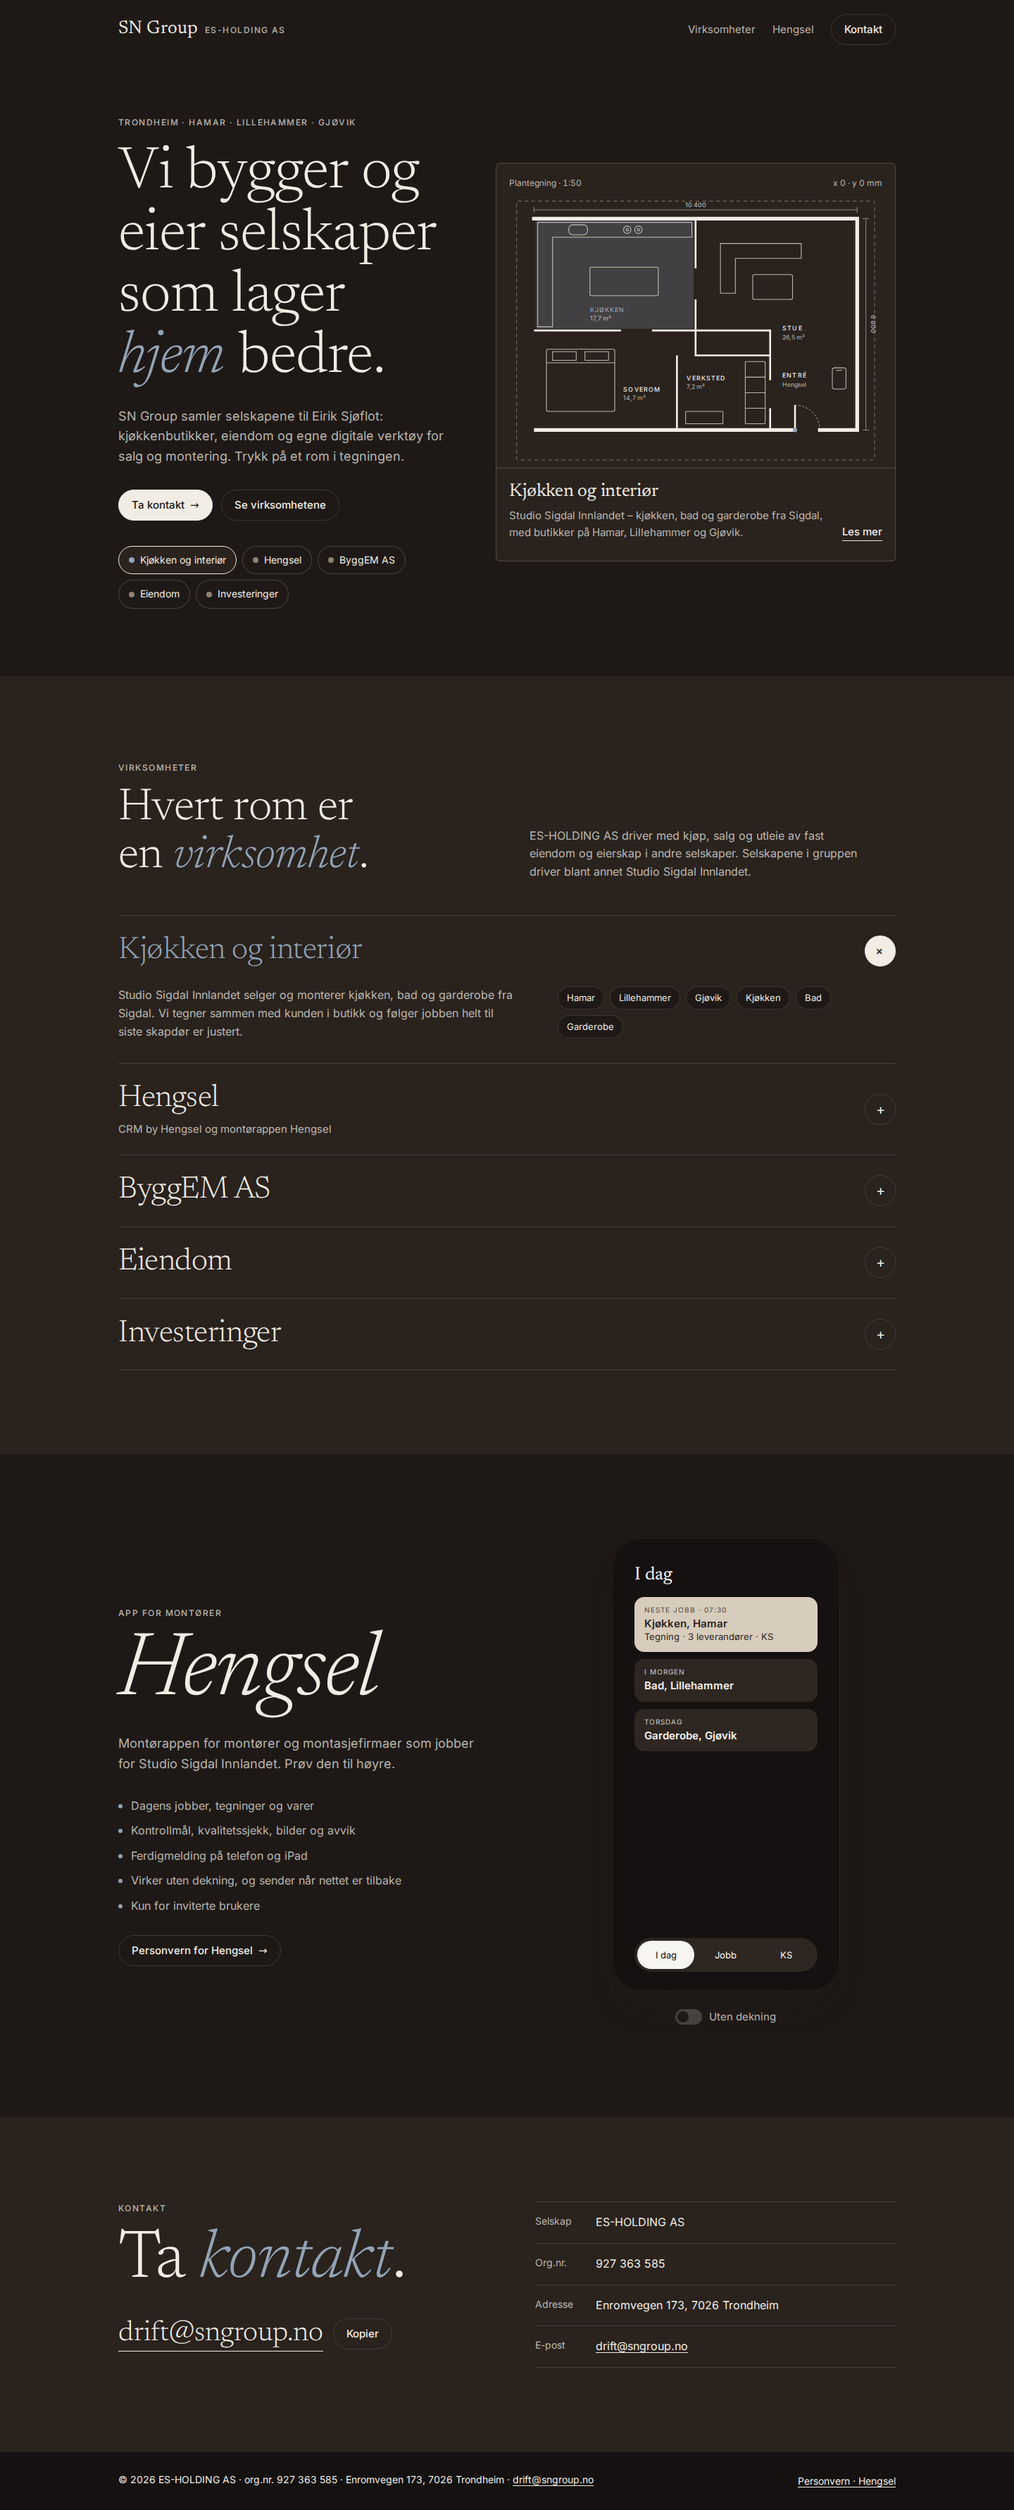
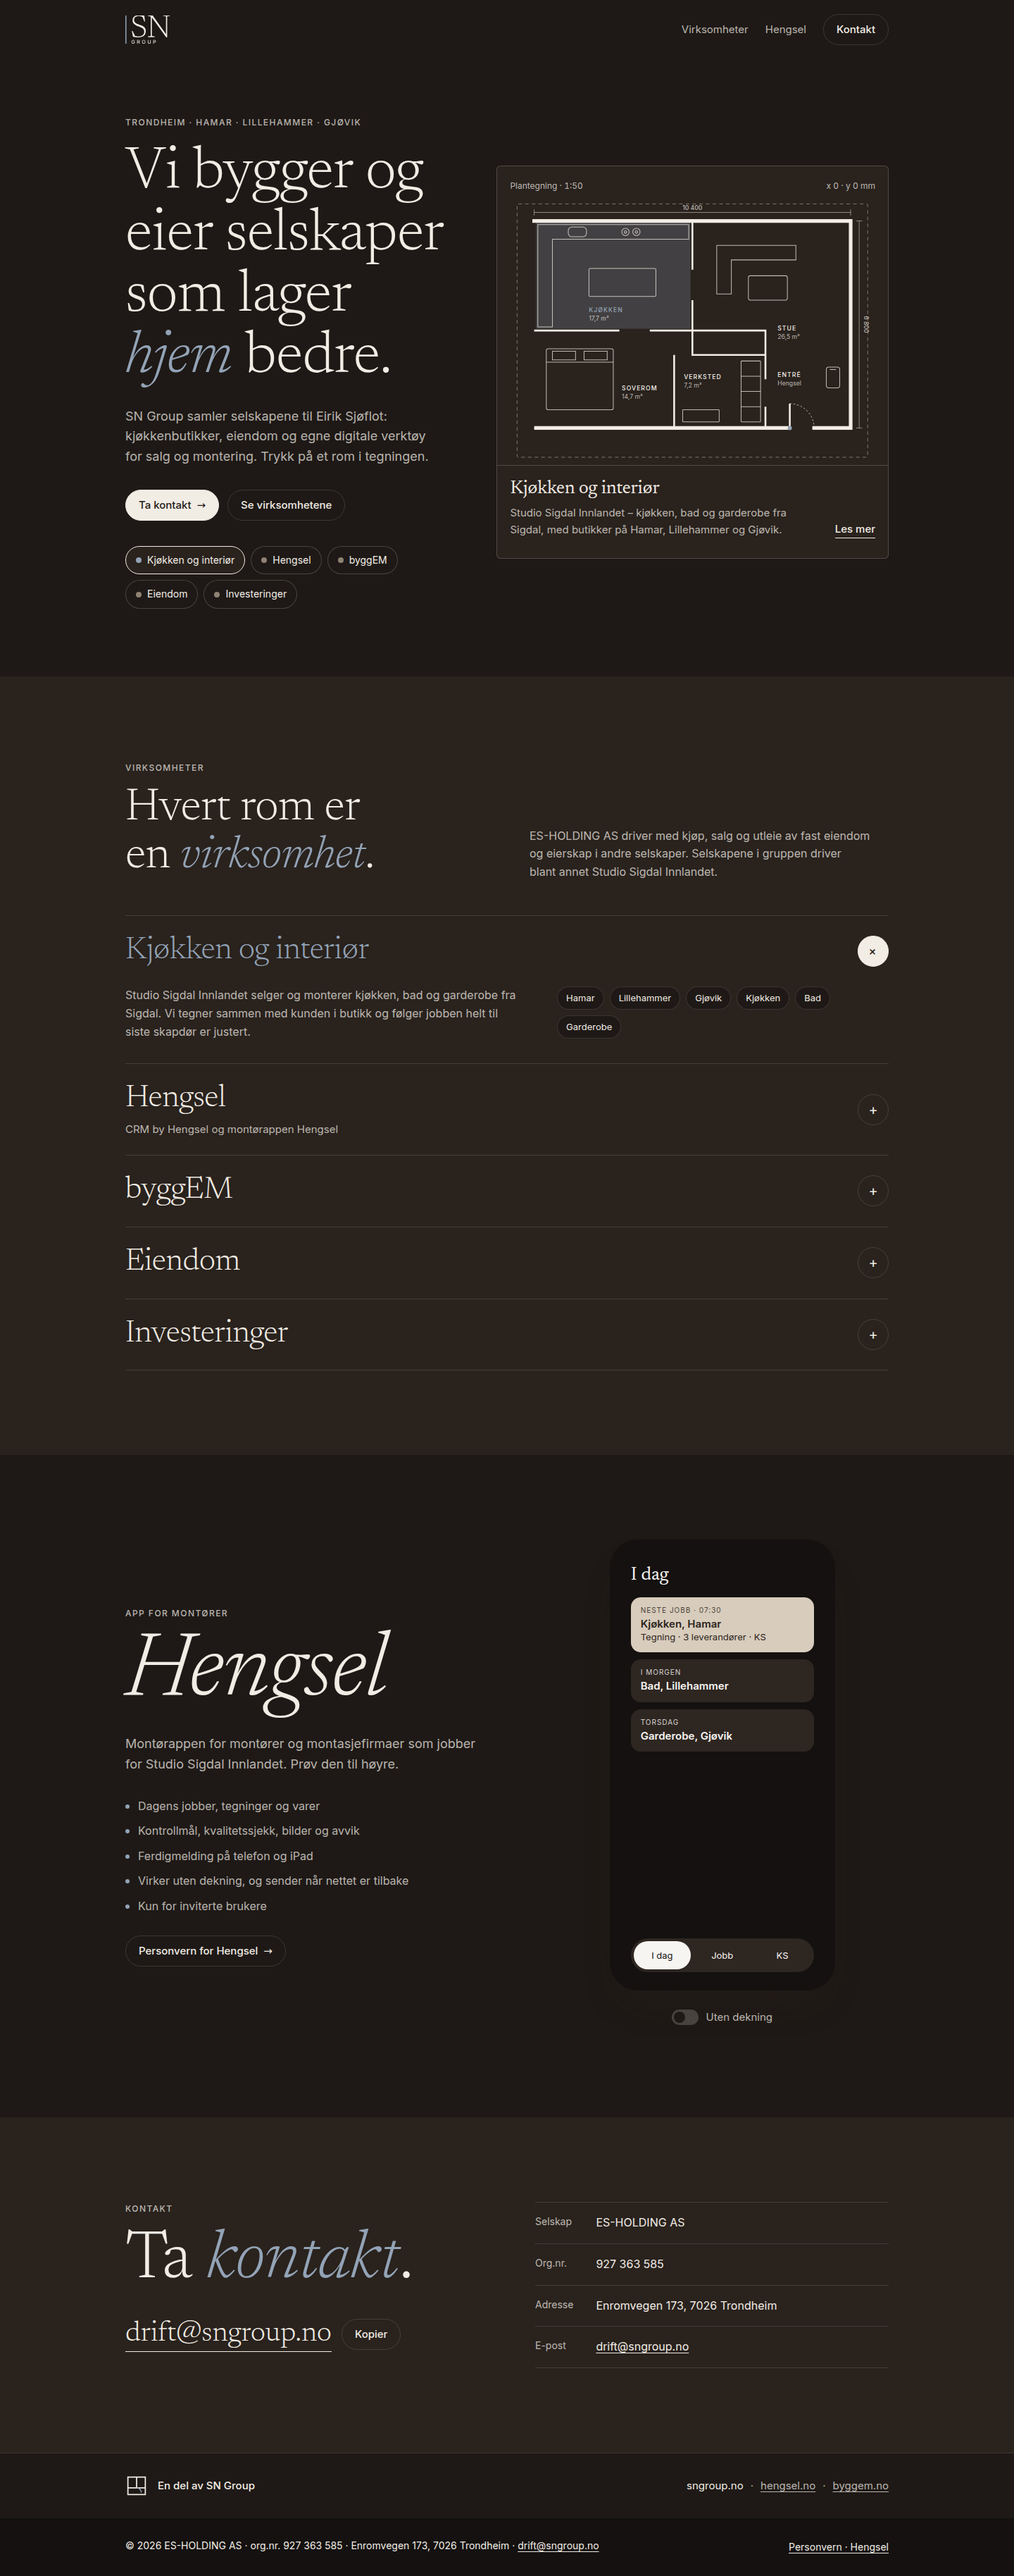
K-87 del 3: sngroup.no etter Claude Design, med familiegrepene
- Innholdsbredde 1180 px, «byggEM», familiebånd over bunnteksten, ny 404 og toppfelt med logo
- Toppfelt og IkkeFunnet justert til sngroup-designet (kompakt for hengsel.no, som="eksempel")
- /design: ny seksjon «Familiegrep» med eksempler for alle tre sidene
- byggem.no: Familiebaand og IkkeFunnet i SN-fargene
- hengsel.no uendret (skjermbildene er byte-identiske)
- Skjermbilder av personvern og 404 for sngroup.no; rapport i docs/k87-del3-rapport.md

Claude-Session: https://claude.ai/code/session_013CxNN6nH4J35BJwoMYS7xH

diff --git a/sites/sngroup/src/content/virksomheter.ts b/sites/sngroup/src/content/virksomheter.ts
@@ -2,6 +2,7 @@
  * Virksomhetene på sngroup.no, i fast rekkefølge.
  *
  * Tekstene er hentet fra dagens sngroup.no (forslag D). ByggEM og Investeringer er godkjent av Eirik 07.10.2026.
+ * «byggEM» skrives slik (byggEMs egen skrivemåte), og «byggEM AS» i teksten (docs/design/sngroup/Endringer.md, punkt 2).
  * Mangler en tekst, bruk PLASSHOLDER og `plassholder: true` (vises i kursiv), og merk feltet med TODO.
  * Ikke fyll inn tall, selskaper, kunder eller eiendommer som ikke er bekreftet av Eirik.
  */
@@ -59,9 +60,9 @@ export const virksomheter: Virksomhet[] = [
   },
   {
     id: "byggem",
-    navn: "ByggEM AS",
+    navn: "byggEM",
     tekst:
-      "ByggEM AS gjør snekkerarbeid og monterer kjøkken og innredning, dører og vinduer. Selskapet er heleid av SN Group.",
+      "byggEM AS gjør snekkerarbeid og monterer kjøkken og innredning, dører og vinduer. Selskapet er heleid av SN Group.",
     kort: "Snekkerarbeid og montering av kjøkken, innredning, dører og vinduer.",
     stikkord: [],
     lenker: [{ href: "https://byggem.no", label: "byggem.no" }],

diff --git a/packages/design/src/styles/tokens.css b/packages/design/src/styles/tokens.css
@@ -47,7 +47,7 @@
   --font-tekst: "Inter Variable", system-ui, -apple-system, "Segoe UI", Arial, sans-serif;
 
   /* Mål */
-  --bredde: 1200px;
+  --bredde: 1180px;
   --gutter: clamp(16px, 4vw, 48px);
   --radius: 6px;
   --radius-pille: 999px;

diff --git a/docs/k87-del3-rapport.md b/docs/k87-del3-rapport.md
@@ -1,0 +1,154 @@
+# K-87 del 3 – sngroup.no etter Claude Design, med familiegrepene
+
+**Dato:** 07.10.2026
+**Fasit:** `docs/design/sngroup/` (eksport fra Claude Design, commit 18f24a3, godkjent av Eirik 07.10.2026)
+**Gren:** `claude/k87-del3`. Ikke flettet til `main`; det skjer når Eirik har sett forhåndsvisningen og skriver
+«flett del 3».
+
+## Forhåndsvisning
+
+Workers Builds laster opp grenen som en forhåndsversjon av Worker «sngroup». Med Cloudflares regel for grennavn blir
+adressen:
+
+**https://claude-k87-del3-sngroup.drift-697.workers.dev**
+
+Jeg har ikke fått sjekket adressen herfra (byggemiljøet når ikke Cloudflare). Den forutsetter to ting:
+
+- «Preview URLs» er slått på for Worker «sngroup».
+- Kommandoen for forhåndsversjoner er `npx wrangler versions upload -c sites/sngroup/wrangler.jsonc`.
+
+Finnes ikke adressen, står den riktige under Worker «sngroup» → Deployments, ved bygget for grenen `claude/k87-del3`.
+
+## Hva er bygd
+
+Endringene 1–6 i `docs/design/sngroup/Endringer.md`:
+
+1. **Innholdsbredde 1180 px:** `--bredde: 1180px` i `packages/design/src/styles/tokens.css` (var 1200). Sidemargene er
+   uendret. Gjelder også byggem.no. hengsel.no hadde 1180 fra før.
+2. **Rekkefølge og «byggEM»:** Kjøkken og interiør, Hengsel, byggEM, Eiendom, Investeringer.
+   - «byggEM» i chip, rad og plantegning (`aria-label` «Verksted 7,2 m²: byggEM»).
+   - «byggEM AS» i teksten. Ellers er teksten uendret.
+3. **Familiebånd** over bunnteksten på alle sider (`Familiebaand gjeldende="sngroup.no"`).
+   - «En del av SN Group» er tatt ut av bunnteksten (`visDelAv={false}`) på sngroup.no og byggem.no. hengsel.no har egen
+     bunntekst uten linjen.
+4. **404:** `IkkeFunnet` med etiketten «404», «Dette rommet finnes ikke.», et tomt rom i plantegningsstrek og
+   «Til forsiden →».
+5. **Toppfeltet:** `Toppfelt` erstatter `SiteHeader` på sngroup.no.
+   - SN Group-logoen er 40 px høy, med lys og mørk utgave (`sites/sngroup/public/logo.svg` og `logo-mork.svg`, fra
+     `docs/design/sngroup/assets/`).
+   - Lenkene er Virksomheter og Hengsel, pluss «Kontakt».
+   - Favikonet er byttet til `assets/favicon.svg`.
+6. **Seksjonsrekkefølge:** hero → hva vi gjør (Virksomheter) → slik jobber vi (Hengsel) → kontakt, som før.
+
+Plantegningen i heroen beholder strektykkelsene (6 / 3 / 1,2 px) og samspillet med chipene og radene. Telefonen er
+uendret (teksten stemmer med `Telefon.jsx`).
+
+### /design
+
+- SiteHeader-eksempelet er erstattet av den nye seksjonen **«Familiegrep»** («Ett hus, flere *rom*.»).
+- Seksjonen viser Toppfelt, Plantegningsstrek (huset, Entré, Verksted), Familiebånd og 404, hver i fargene til
+  sngroup.no, hengsel.no og byggem.no.
+- Fargene for hengsel og byggem er verdiene fra `Design.dc.html`, satt som klasser (CSP tillater ikke `style`-attributter).
+- Teksten om SiteFooter er oppdatert («Bunnteksten under familiebåndet …»).
+- Seksjonene veksler som i designet: Farger (flate), Skrift, Familiegrep (flate), Komponenter.
+
+### Familiekomponentene (fra del 4, justert, ikke laget på nytt)
+
+| Komponent | Justering i del 3 |
+|---|---|
+| `Toppfelt` | Standard er nå sngroup-utgaven: 20 px luft over og under, kontaktknappen som `.pill` (18 px sidemarg). Ny `kompakt` gir hengsel.no sin faste høyde på 64 px; hengsel.no bruker den |
+| `IkkeFunnet` | Knappen «tekst» er lik `.pill.solid` (15 px, ramme). Ny `som="eksempel"` lager `<div>` og tittel uten `<h1>`, så /design ikke får to hovedområder. Klassen kolliderte med `oppsett="side"`; rettet til `som-…` |
+| `Plantegningsstrek` | Uendret, stemmer med `Plantegningsstrek.dc.html` |
+| `Familiebaand` | Uendret, stemmer med `Familiebaand.dc.html` |
+
+Komponentene bruker fortsatt bare de semantiske variablene fra Endringer.md.
+
+### byggem.no (skjelettet)
+
+- Familiebåndet ligger over bunnteksten, og «En del av SN Group» er tatt ut av bunnteksten.
+- 404 er `IkkeFunnet` («Dette rommet finnes ikke.»).
+- Alt er i SN-fargene til del 5 kommer. Toppfeltet er fortsatt `SiteHeader`; det er ikke en del av denne bestillingen.
+
+### hengsel.no er uendret
+
+Alle 12 skjermbildene av hengsel.no (forside, personvern og 404; PC og mobil; lys og mørk) er tatt på nytt etter
+endringene og er **byte-identiske** med bildene fra del 4 (md5).
+
+## Skrifter som faktisk er brukt
+
+Målt i Chromium på forsiden. Begge familiene er selvhostet fra npm (`@fontsource-variable/newsreader` og
+`@fontsource-variable/inter`), latin-delsett. Ingen forespørsler til jsDelivr, Google Fonts eller andre nettsteder.
+
+| Familie | Fil | Bruk |
+|---|---|---|
+| Newsreader Variable (normal) | `newsreader-latin-wght-normal.woff2` | Overskrifter (300 og 400) |
+| Newsreader Variable (kursiv) | `newsreader-latin-wght-italic.woff2` | Aksentord («*hjem*», «*virksomhet*», «*Hengsel*») |
+| Inter Variable (normal) | `inter-latin-wght-normal.woff2` | All annen tekst (400, 500, 600) |
+
+Logoen er konturer (SVG), ikke tekst.
+
+## Kvalitet
+
+| Sjekk | Resultat |
+|---|---|
+| `npm run build` | Grønt for alle tre. `csp-hasher.mjs` la inn ny stilhash i `dist/_headers` for hvert nettsted |
+| `npm test` | 143 forespørsler, 0 feil. Alle interne lenker og ankre svarer 200, og ukjente sider får 404-siden |
+| `npx wrangler deploy --dry-run -c sites/<navn>/wrangler.jsonc` | OK for sngroup (29 filer), hengsel (59) og byggem (22). Ingen bindinger. Ingen innlogging, ingen ekte deploy |
+| `npm run skjermbilder` | 0 feil. Alle sider på alle tre nettstedene ved 360 px, lys og mørk: ingen vannrett rulling og ingen konsollfeil (CSP gjelder). Plantegningen, chipene og radene henger sammen. Ingen eksterne kall, ingen informasjonskapsler |
+| Lighthouse, forsiden mobil (3 kjøringer) | Ytelse 99, tilgjengelighet 100, beste praksis 100, SEO 100. LCP 1,9–2,0 s, TBT 0 ms, CLS 0,003 |
+| Kontrast og WCAG (axe, 2 A/AA) | Ingen brudd på sngroup.no (/, /personvern, /design, 404) og byggem.no (/, /personvern, 404), lys og mørk, 1440 og 360 px |
+| `data-theme` | `data-theme="dark"` eller `"light"` på `<html>` overstyrer systemvalget, også for logoen |
+
+Axe fant ett brudd som også fantes før del 3: kontrasttabellen på /design ruller sidelengs ved 360 px, men kunne ikke nås
+med tastaturet. Den har nå `tabindex="0"`, `role="region"` og en etikett.
+
+## Skjermbilder
+
+Helsidebilder i `docs/skjermbilder/` (PC 1440 px, mobil 390 px), tatt med `npm run skjermbilder`. Skriptet tar nå også
+personvern og 404 for sngroup.no.
+
+| Side | PC lys | PC mørk | Mobil lys | Mobil mørk |
+|---|---|---|---|---|
+| Forside | [lys](skjermbilder/forside-desktop-lys.png) | [mørk](skjermbilder/forside-desktop-mork.png) | [lys](skjermbilder/forside-mobil-lys.png) | [mørk](skjermbilder/forside-mobil-mork.png) |
+| Personvern | [lys](skjermbilder/personvern-desktop-lys.png) | [mørk](skjermbilder/personvern-desktop-mork.png) | [lys](skjermbilder/personvern-mobil-lys.png) | [mørk](skjermbilder/personvern-mobil-mork.png) |
+| /design | [lys](skjermbilder/design-desktop-lys.png) | [mørk](skjermbilder/design-desktop-mork.png) | [lys](skjermbilder/design-mobil-lys.png) | [mørk](skjermbilder/design-mobil-mork.png) |
+| 404 | [lys](skjermbilder/404-desktop-lys.png) | [mørk](skjermbilder/404-desktop-mork.png) | [lys](skjermbilder/404-mobil-lys.png) | [mørk](skjermbilder/404-mobil-mork.png) |
+
+## Avvik fra designet
+
+Sammenlignet med `docs/design/sngroup/screenshots/` og koden i `.dc.html`-filene. Prototypen kunne ikke rendres her:
+`support.js` henter React fra unpkg.com, og skriftene kommer fra jsDelivr; begge er stengt i byggemiljøet.
+
+1. **byggem-eksemplene på /design** viser reserveskriften (Helvetica Neue / Arial) i stedet for Poppins. Poppins er ikke
+   installert ennå og kommer med byggem.no i del 5.
+2. **Eksemplene på /design** bruker fargene fra `Design.dc.html`. For hengsel er det `--tekst-dempet` med 74 % dekning;
+   hengsel.no bruker selv #5E564C (fra del 4). Forskjellen er knapt synlig.
+3. **Toppfelt-eksemplene for hengsel og byggem** viser ordmerket i tekst, som i designet. Den ekte hengsel.no har
+   Hengsel-logoen og den blå «Be om demo»-knappen.
+4. **404-eksemplene på /design** har tittelen i et `<p>` med samme stil som `<h1>`, så siden bare har én hovedoverskrift.
+5. **Logoene** inneholder fortsatt C2PA-metadata fra eksporten (rundt 9 kB per fil). Jeg har latt dem stå.
+6. **Toppfeltet på byggem.no** er fortsatt `SiteHeader`. Det kommer i del 5.
+
+Ingen nye påstander, tall eller kunder. Den eneste tekstendringen er «byggEM».
+
+## Filer
+
+- **`packages/design/src/`:**
+  - `styles/tokens.css` (1180 px)
+  - `components/Toppfelt.astro` (`kompakt`, knappen)
+  - `components/IkkeFunnet.astro` (`som`, knappen, rettet klasse)
+- **`sites/sngroup/`:**
+  - `src/layouts/Side.astro` (Toppfelt, Familiebaand)
+  - `src/components/Logo.astro` (ny)
+  - `src/pages/404.astro`
+  - `src/pages/design.astro` (Familiegrep)
+  - `src/content/virksomheter.ts` (byggEM)
+  - `public/logo.svg`, `public/logo-mork.svg`, `public/favicon.svg`
+- **`sites/byggem/src/`:** `layouts/Side.astro` og `pages/404.astro`.
+- **`sites/hengsel/src/layouts/Side.astro`:** `kompakt` på toppfeltet. Utseendet er uendret.
+- **`scripts/skjermbilder.mjs`:** personvern og 404 for sngroup.no.
+
+## Neste steg
+
+1. Eirik ser forhåndsvisningen og skriver «flett del 3».
+2. Da flettes `claude/k87-del3` til `main`, og Worker «sngroup» publiserer sngroup.no.
